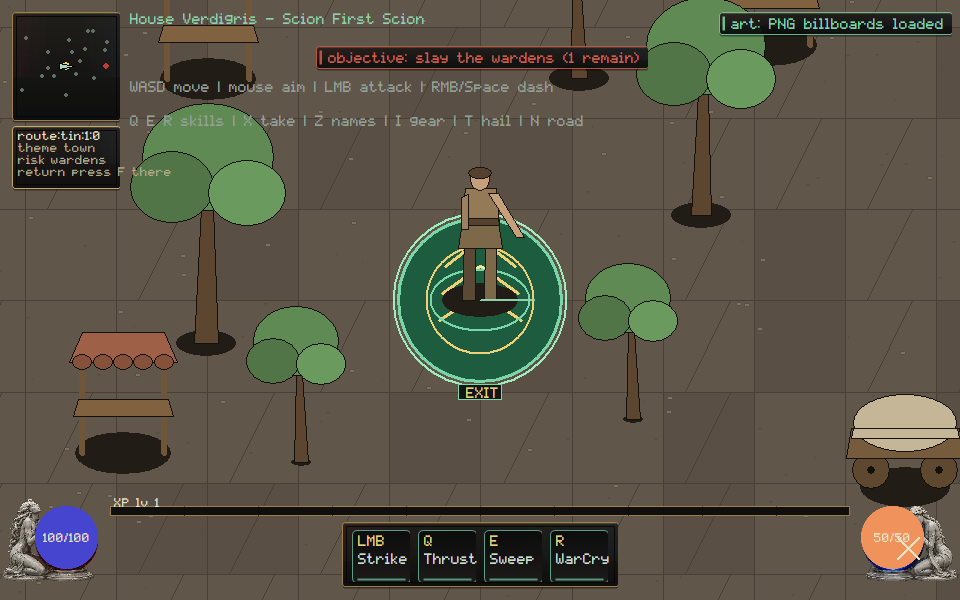
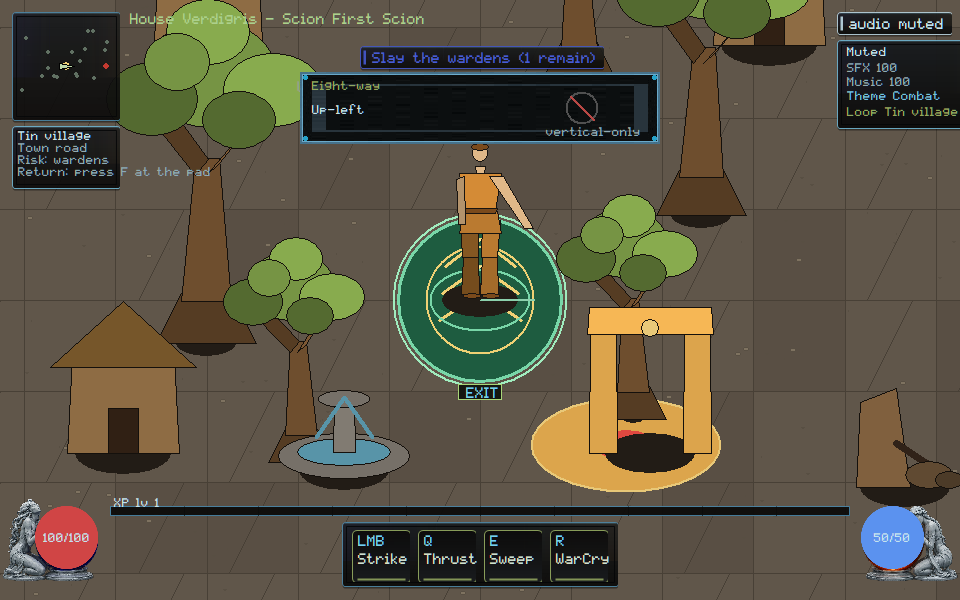
native: name pane stack and eight-way so helper depth and vertical-only cannot certify

diff --git a/native/client/main.cpp b/native/client/main.cpp
@@ -480,6 +480,8 @@ struct ClientState {
   bool dense_mix_review_strip = false;
   bool attack_beat_review_strip = false;
   bool combat_beats_review_strip = false;
+  bool pane_stack_review_strip = false;
+  bool eight_way_review_strip = false;
   bool debug_overlay = false;
   // Last full paint_scene duration in milliseconds (F3 overlay); the honest
   // per-frame budget readout that catches presentation-cost regressions.
@@ -6546,6 +6548,84 @@ void paint_combat_beats_review_strip(ClientState& state, HDC dc, const RECT& bou
   SelectObject(dc, old_font);
 }
 
+void paint_pane_stack_review_strip(ClientState& state, HDC dc, const RECT& bounds,
+                                   render::List& rl) {
+  if (!state.pane_stack_review_strip) return;
+  const int s = hud_scale(static_cast<int>(bounds.bottom));
+  const int pane_w = 360 * s;
+  const int pane_h = 72 * s;
+  const int left = (static_cast<int>(bounds.right) - pane_w) / 2;
+  const int top = 72 * s;
+  RECT pane{left, top, left + pane_w, top + pane_h};
+  if (!draw_framekit_nine(state.billboards, dc, state.billboards.fk_panel, pane))
+    skin::panel(dc, pane, skin::kVerdigris, 235, 8.0f);
+  rl.push_back({render::Op::Hud, static_cast<double>(left),
+                static_cast<double>(top), 0.0, 1, "stack-strip"});
+  SetBkMode(dc, TRANSPARENT);
+  HGDIOBJ old_font = SelectObject(dc, skin::font_small());
+  SetTextColor(dc, skin::kVerdigris);
+  const char* title = verdigris::client::ui::owner_stack_label();
+  TextOutA(dc, left + 12 * s, top + 8 * s, title, static_cast<int>(strlen(title)));
+  SetTextColor(dc, skin::kInk);
+  const char* escape = verdigris::client::ui::owner_escape_label();
+  TextOutA(dc, left + 12 * s, top + 32 * s, escape, static_cast<int>(strlen(escape)));
+  const int rx = left + pane_w - 78 * s;
+  const int ry = top + 36 * s;
+  ring_ellipse(dc, rx, ry, 16 * s, 16 * s, RGB(80, 80, 80), 2);
+  draw_line(dc, rx - 12 * s, ry - 12 * s, rx + 12 * s, ry + 12 * s, RGB(185, 72, 69),
+            2);
+  SetTextColor(dc, skin::kInkDim);
+  const char* rejected = "helper depth";
+  TextOutA(dc, rx - 36 * s, top + pane_h - 18 * s, rejected,
+           static_cast<int>(strlen(rejected)));
+  rl.push_back({render::Op::Hud, static_cast<double>(left + 12 * s),
+                static_cast<double>(top + 8 * s), 0.0, 1, "stack:2"});
+  rl.push_back({render::Op::Hud, static_cast<double>(left + 12 * s),
+                static_cast<double>(top + 32 * s), 0.0, 1, "stack:escape"});
+  rl.push_back({render::Op::Hud, static_cast<double>(rx), static_cast<double>(ry),
+                0.0, 0, "stack-strip:helper-rejected"});
+  SelectObject(dc, old_font);
+}
+
+void paint_eight_way_review_strip(ClientState& state, HDC dc, const RECT& bounds,
+                                  render::List& rl) {
+  if (!state.eight_way_review_strip) return;
+  const int s = hud_scale(static_cast<int>(bounds.bottom));
+  const int pane_w = 360 * s;
+  const int pane_h = 72 * s;
+  const int left = (static_cast<int>(bounds.right) - pane_w) / 2;
+  const int top = 72 * s;
+  RECT pane{left, top, left + pane_w, top + pane_h};
+  if (!draw_framekit_nine(state.billboards, dc, state.billboards.fk_panel, pane))
+    skin::panel(dc, pane, skin::kVerdigris, 235, 8.0f);
+  rl.push_back({render::Op::Hud, static_cast<double>(left),
+                static_cast<double>(top), 0.0, 1, "eight-strip"});
+  SetBkMode(dc, TRANSPARENT);
+  HGDIOBJ old_font = SelectObject(dc, skin::font_small());
+  SetTextColor(dc, skin::kVerdigris);
+  const char* title = verdigris::client::move::owner_eight_way_label();
+  TextOutA(dc, left + 12 * s, top + 8 * s, title, static_cast<int>(strlen(title)));
+  SetTextColor(dc, skin::kInk);
+  const char* diag = verdigris::client::move::owner_up_left_label();
+  TextOutA(dc, left + 12 * s, top + 32 * s, diag, static_cast<int>(strlen(diag)));
+  const int rx = left + pane_w - 78 * s;
+  const int ry = top + 36 * s;
+  ring_ellipse(dc, rx, ry, 16 * s, 16 * s, RGB(80, 80, 80), 2);
+  draw_line(dc, rx - 12 * s, ry - 12 * s, rx + 12 * s, ry + 12 * s, RGB(185, 72, 69),
+            2);
+  SetTextColor(dc, skin::kInkDim);
+  const char* rejected = "vertical-only";
+  TextOutA(dc, rx - 36 * s, top + pane_h - 18 * s, rejected,
+           static_cast<int>(strlen(rejected)));
+  rl.push_back({render::Op::Hud, static_cast<double>(left + 12 * s),
+                static_cast<double>(top + 8 * s), 0.0, 1, "move:eight-way"});
+  rl.push_back({render::Op::Hud, static_cast<double>(left + 12 * s),
+                static_cast<double>(top + 32 * s), 0.0, 1, "move:up-left"});
+  rl.push_back({render::Op::Hud, static_cast<double>(rx), static_cast<double>(ry),
+                0.0, 0, "eight-strip:vertical-rejected"});
+  SelectObject(dc, old_font);
+}
+
 const char* attack_stage_label(vector_art::Pose::AttackStage stage) {
   switch (stage) {
     case vector_art::Pose::AttackStage::Windup:
@@ -7574,6 +7654,8 @@ void paint_scene(ClientState& state, HDC dc, const RECT& bounds) {
   paint_dense_mix_review_strip(state, dc, bounds, rl);
   paint_attack_beat_review_strip(state, dc, bounds, rl);
   paint_combat_beats_review_strip(state, dc, bounds, rl);
+  paint_pane_stack_review_strip(state, dc, bounds, rl);
+  paint_eight_way_review_strip(state, dc, bounds, rl);
 
   state.render_list = std::move(rl);
   if (state.debug_overlay) {
@@ -12243,8 +12325,23 @@ int scenario_pane_stack() {
     return scenario_failures;
   }
   const std::string png = dir + "\\pane-stack-960x600.png";
+  state.pane_stack_review_strip = true;
   scenario_check(reference_present(state, 960, 600, png),
                  "pane-stack: stacked-pane capture written");
+  bool stack_owner = false;
+  bool escape_owner = false;
+  bool helper_rejected = false;
+  for (const auto& item : state.render_list) {
+    if (item.op != render::Op::Hud) continue;
+    if (item.label == "stack:2") stack_owner = true;
+    if (item.label == "stack:escape") escape_owner = true;
+    if (item.label == "stack-strip:helper-rejected") helper_rejected = true;
+  }
+  scenario_check(stack_owner && escape_owner,
+                 "pane-stack: live HUD names Stack 2 and Escape closes");
+  scenario_check(helper_rejected,
+                 "pane-stack: live HUD rejects helper depth as the journey");
+  state.pane_stack_review_strip = false;
 
   handle_escape_key(state);
   scenario_check(state.gear_overlay && !state.character_pane && !state.quit_requested,
@@ -13182,9 +13279,14 @@ int scenario_eight_way() {
     scenario_check(false, "eight-way: capture root rejected before any write");
     return scenario_failures;
   }
+  state.eight_way_review_strip = true;
   const std::string png = dir + "\\eight-way-960x600.png";
   scenario_check(reference_present(state, 960, 600, png),
                  "eight-way: capture written");
+  scenario_check(has_hud("move:eight-way") && has_hud("move:up-left"),
+                 "eight-way: live HUD names Eight-way and Up-left");
+  scenario_check(has_hud("eight-strip:vertical-rejected"),
+                 "eight-way: live HUD rejects a vertical-only encoder");
   return scenario_failures;
 }
 

diff --git a/native/client/ui/integrate-one-pane-ownership-model.hpp b/native/client/ui/integrate-one-pane-ownership-model.hpp
@@ -16,4 +16,7 @@ inline bool helper_depth_alone_cannot_prove(int depth, bool native_painted,
   return !native_painted || !native_escape;
 }
 
+inline const char* owner_stack_label() { return "Stack 2"; }
+inline const char* owner_escape_label() { return "Escape closes"; }
+
 }  // namespace verdigris::client::ui

diff --git a/native/client/input/preserve-diagonal-remote-input.hpp b/native/client/input/preserve-diagonal-remote-input.hpp
@@ -51,4 +51,7 @@ inline bool all_eight_encode() {
   return true;
 }
 
+inline const char* owner_eight_way_label() { return "Eight-way"; }
+inline const char* owner_up_left_label() { return "Up-left"; }
+
 }  // namespace verdigris::client::move

diff --git a/docs/execution/CROSSWALK.md b/docs/execution/CROSSWALK.md
@@ -33,7 +33,7 @@ Cursor evidence notes.
 
 | VG | Disposition | Existing |
 |---|---|---|
-| VG-UI-001 | extend | native Escape stack (`pane-stack`); helper depth alone cannot pass |
+| VG-UI-001 | extend | native Escape stack (`pane-stack`); owner Stack 2 / Escape closes; helper depth alone cannot pass |
 | VG-UI-002 | extend | TASK-0171 INTEGRATED, 0184 BRIDGE_PREP; `pack-drag`; reject cannot lose/duplicate/silent-equip |
 | VG-UI-003 | extend | paper-doll + ack-only HUD (`equipment`); pending compare cannot gold-frame as equipped |
 | VG-UI-004 | extend | TASK-0156, 0159 INTEGRATED; `stat-explain` expandable ATK; dormant cannot fold into Attack |
@@ -64,7 +64,7 @@ Cursor evidence notes.
 | VG-MOVE-005 | extend | TASK-0165 `input_focus.hpp` wired in `fixed_game_tick` (`pane-focus`); not a core movement rewrite |
 | VG-MOVE-006 | new | isolated `bindings.v1` (`remap-binds`); owner Documents cannot be the test path. Full VG-SHIP-001 packager stays Kimi |
 | VG-MOVE-008 | new | `input-latency` p50/p95 on the paint path; `Simulation::dispatch` time is not photon. MOVE-007 buffering stays Kimi |
-| VG-MOVE-001 | new | eight-way `player:move` names (`eight-way`); vertical-only collapse fails |
+| VG-MOVE-001 | new | eight-way `player:move` names (`eight-way`); owner Eight-way / Up-left; vertical-only collapse fails |
 | VG-MOVE-002 | new | held aim survives locomotion (`aim-hold`); core move still clobbers without the adapter |
 | VG-MOVE-003–004, 007 | extend / new | Kimi lease for sim travel distance / dash sweep / action buffering |
 
@@ -216,9 +216,9 @@ VG-PERF-007: 32 resize/effect cycles; floor bitmaps stay 1. Scenario
 VG-SOUND-007: mixer tape from mixed pack + elite; live HUD paints
 Encounter mix / Hit + warning. An isolated preview cannot certify.
 Scenario `dense-mix`. Evidence `docs/execution/evidence/VG-SOUND-007.json`.
-VG-UI-001: Escape dismisses character then gear; bare Escape quits. Helper
-depth alone cannot prove. Scenario `pane-stack`.
-`pane-stack`.
+VG-UI-001: Escape dismisses character then gear; bare Escape quits. Owner
+strip paints Stack 2 / Escape closes. Helper depth alone cannot prove.
+Scenario `pane-stack`. Evidence `docs/execution/evidence/VG-UI-001.json`.
 VG-MOVE-005: TASK-0165 focus reducer gates WASD, combat, pickup, and pack
 drag. Closing a pane cannot release a held attack. Scenario `pane-focus`.
 Evidence `docs/execution/evidence/VG-MOVE-005.json`.
@@ -230,8 +230,9 @@ VG-MOVE-008: input QPC to `paint_scene` present QPC. p50/p95 on this
 machine. Command dispatch time is not `input-latency:photon`. Scenario
 `input-latency`. Protocol
 `docs/execution/decisions/measure-native-input-response.md`.
-VG-MOVE-001: eight-way encoder keeps both axes. A vertical-only name
-cannot pass a diagonal. Scenario `eight-way`.
+VG-MOVE-001: eight-way encoder keeps both axes. Owner strip paints
+Eight-way / Up-left. A vertical-only name cannot pass a diagonal.
+Scenario `eight-way`. Evidence `docs/execution/evidence/VG-MOVE-001.json`.
 VG-MOVE-002: `player:move` does not replace held aim; local tick
 re-applies aim after move. Scenario `aim-hold`. Core `resolve_move` still
 turns facing — that is the defect the adapter covers.

diff --git a/orchestration/CURSOR_KIMI_LANES.md b/orchestration/CURSOR_KIMI_LANES.md
@@ -634,3 +634,13 @@ Please move off that branch before taking a new native path.
 - **Stay off** `native/client/main.cpp` and `docs/execution/**`. SEC/CORE
   remain yours. GOV-002 still unstamped.
 
+## Cursor reply (2026-09-06, pane stack and eight-way)
+
+- **Lease:** `main.cpp` still **ACTIVE**. `remote_session.cpp` stays
+  **RELEASED**. Do not re-spec TASK-0108 core/wire (`3b929637`).
+- **Landed this push:** VG-UI-001 — Stack 2 / Escape closes; helper depth
+  rejected. VG-MOVE-001 — Eight-way / Up-left; vertical-only rejected.
+  Captures viewed. Core movement stays yours. Not Owner Demo.
+- **Stay off** `native/client/main.cpp` and `docs/execution/**`. SEC/CORE
+  remain yours. GOV-002 still unstamped.
+

diff --git a/docs/rebuild/HANDOFF.md b/docs/rebuild/HANDOFF.md
@@ -1,5 +1,16 @@
 # Native reconstitution handoff
 
+## 2026-09-06 — pane stack and eight-way (Cursor)
+
+- VG-UI-001: owner Stack 2 strip paints Escape closes. Helper depth
+  cannot certify. Escape still dismisses character then gear; bare
+  Escape quits. Skill tree title stays Skill tree, not Geometric
+  Passives. Capture viewed. Not Owner Demo.
+- VG-MOVE-001: owner Eight-way strip paints Up-left. A vertical-only
+  encoder cannot pass a diagonal. Capture viewed. Core movement stays
+  Kimi.
+- Scenarios `pane-stack` / `eight-way` PASS.
+
 ## 2026-09-06 — attack beat and mapped cues (Cursor)
 
 - VG-ACT-007: owner Attack beat strip paints Anticipate. A fabricated
